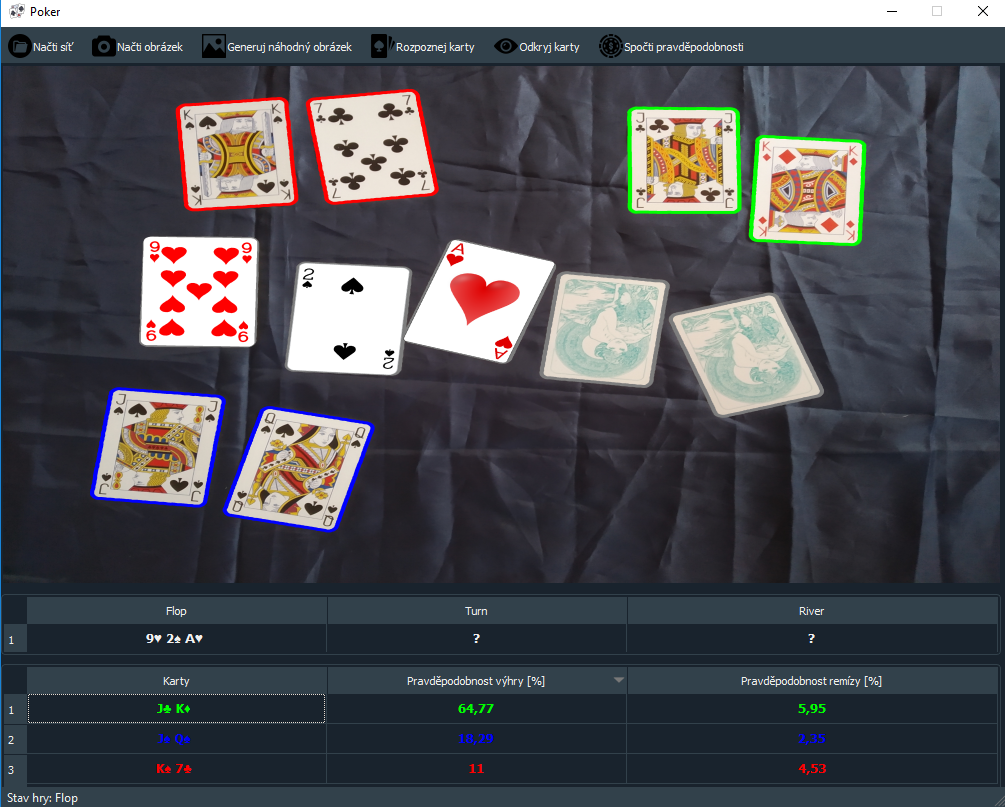
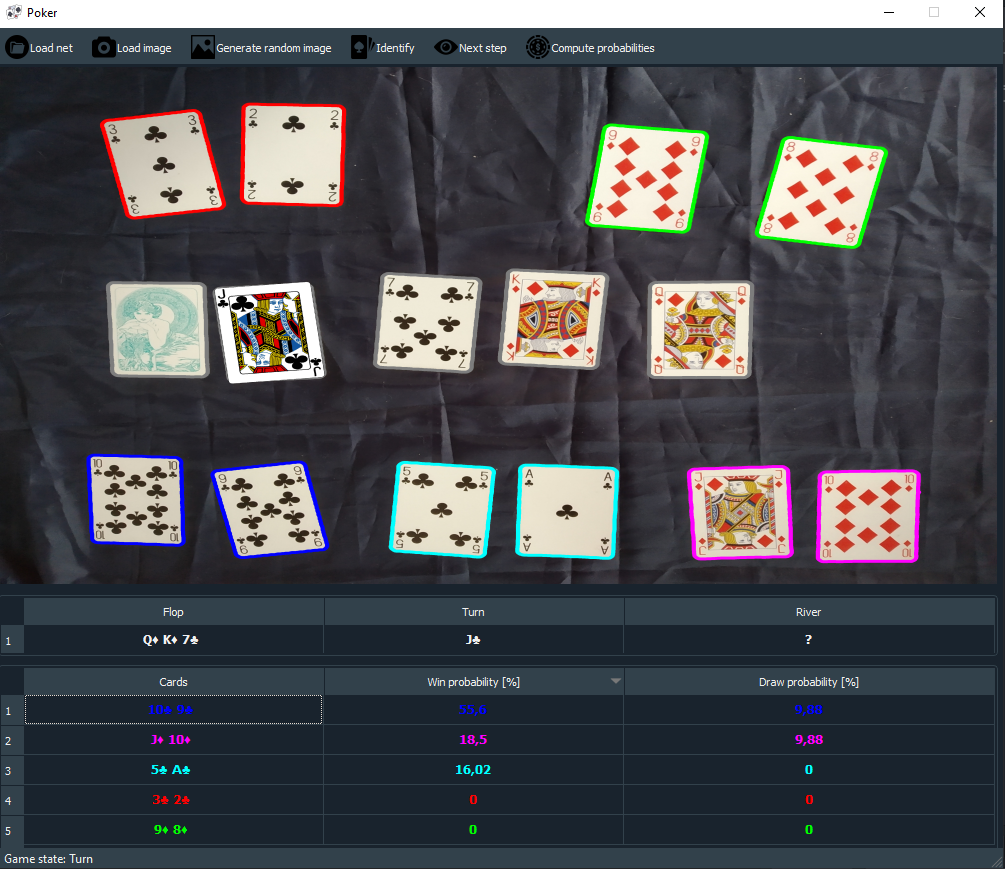
readme edit

diff --git a/README.md b/README.md
@@ -4,7 +4,7 @@ Made in Python 3 for Texas Hold'em poker
 Application input: Image of poker table <br />
 Application output: Probabilities of win/draw for each player
 
-<p align="center"> 
+<p align="center">
 <img src="https://raw.githubusercontent.com/hrdlickajan/DP/master/img/vzor.PNG">
 </p>
 
@@ -24,11 +24,13 @@ pip install -r requirements.txt
 
 ### Usage
 1. run poker.py
-2. Button "Načti síť" - vybrat složku se sítí v tensorflow - "sit_final_sety", po úspěšném načtení se zaškrtne checkbox "síť načtena"
-3. lze buď načíst reálný obrázek stolu pomocí tlačítka "Načti obrázek" (vzorové obrázky stolu jsou ve složce "obrazky")
-4. nebo generovat náhodný syntetický obrázek tlačítkem "Generuj náhodný obrázek"
-5. Tlačítko "Rozpoznej karty" identifikuje pokerové karty a přiřadí je hráčům
-6. "Odkryj karty" vygeneruje místo otočených karet na stole náhodnou hrací kartu
-7. "Spočti pravděpodobnosti" provede několik simulací pokerových her a vypíše pravděpodobnosti výhry/remízy pro každého hráče
+2. Button "Load net" - choose folder CNN-cards to load neural network to classify cards
+3. Button "Load image" - loads any image and displays it in GUI, some sample images with poker tables are in the folder "sample_images"
+4. Button "Generate random image" - generates a synthetic poker image with random cards and random player count
+5. Button "Identify" - identify all cards and assign them to players
+6. Button "Next step" - simulates the next game state and shows it in GUI
+7. Button "Compute probabilities" - computes probabilities of win and draw for every player and displays it in the table from highest to lowest
+
+example order(s): 1-2-3(or 4)-5-6(or 7)
 
 todo: rewrite code in english
